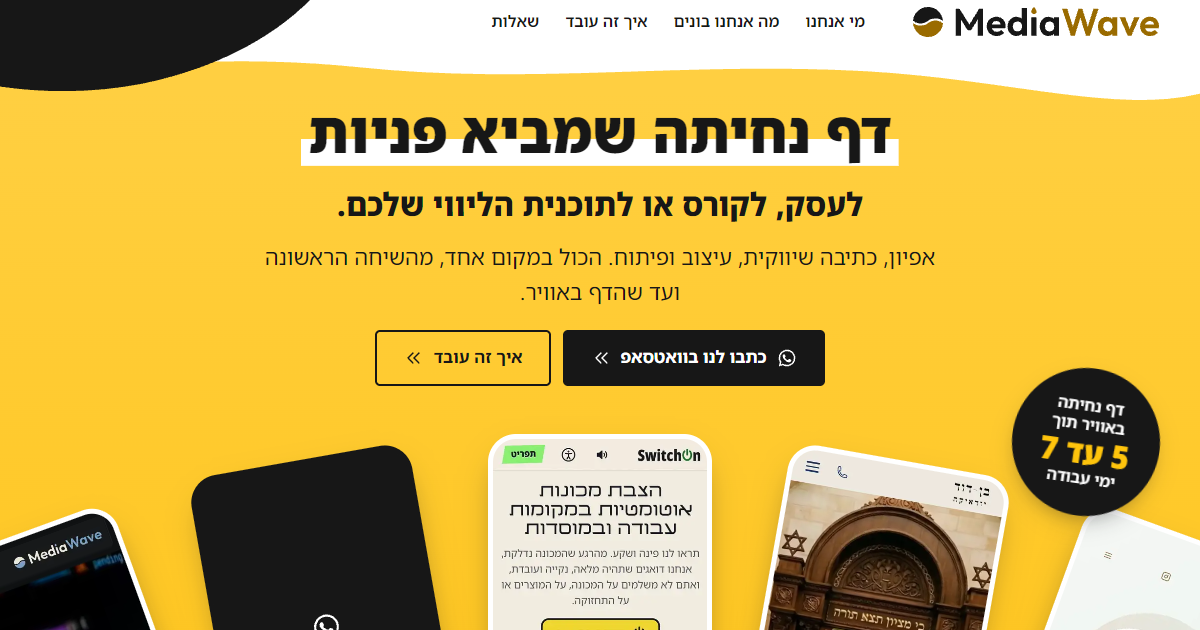
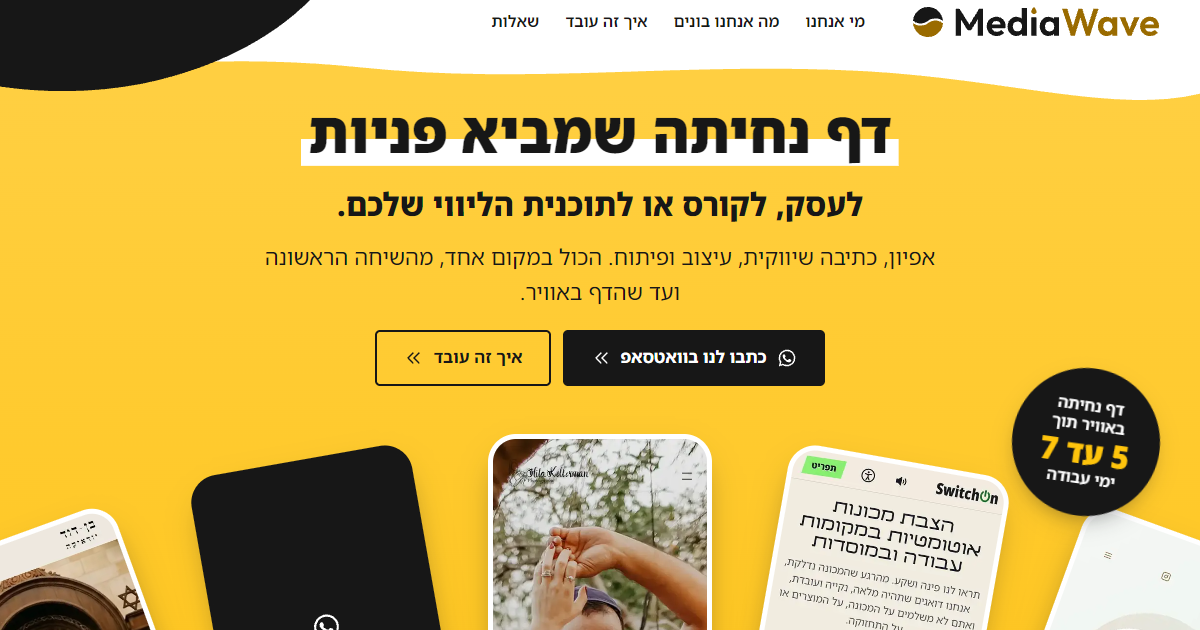
feat: two more scenes of Hila's page on the wheel (D243)
Her family-photos block and her gallery join her opening, three cards in all,
and the wheel opens on her. A project gets scenes through work.json; the deck
orders itself so that one site's cards stand three places apart.

Changed region(s): [[0.4008, 0.6937, 0.8325, 1.0], [0.0, 0.8143, 0.1233, 1.0]]

diff --git a/src/sun/Wheel.tsx b/src/sun/Wheel.tsx
@@ -20,23 +20,35 @@ const OPEN = { turn: 56, below: 0.86, seconds: 1.8, rise: 1.0 }
 /** Cards in one turn of the deck: odd, and a divisor of SLOTS. */
 const UNIT = 9
 
-type Card = { kind: 'shot'; slug: string; crop: 'top' | 'mid' } | { kind: 'next' }
+/** `crop` names the picture: public/work/<slug>-card-<crop>.webp ("top", "mid", or a scene "s1", "s2"). */
+type Shot = { kind: 'shot'; slug: string; crop: string }
+type Card = Shot | { kind: 'next' }
 
-/** The deck: the tops of all the projects, a lower crop of the first three, and one "yours next" card. */
+/** The deck: every project's top, more scenes of the pages that photograph well, a lower crop of others,
+    and one "yours next" card. */
 function deck(): Card[] {
-  const tops: Card[] = PROJECTS.map((p) => ({ kind: 'shot', slug: p.slug, crop: 'top' }))
-  // a project whose page is mostly dark further down shows its top only ("crops": 1 in work.json)
-  const mids: Card[] = PROJECTS.filter((p) => p.crops !== 1).map((p) => ({ kind: 'shot', slug: p.slug, crop: 'mid' }))
+  const shot = (slug: string, crop: string): Shot => ({ kind: 'shot', slug, crop })
+  const tops = PROJECTS.map((p) => shot(p.slug, 'top'))
+  // "scenes" in work.json (D243): further parts of a page worth showing. Two at most, so one site holds
+  // three cards at most, and three cards can still stand three places apart on a deck of nine.
+  const scenes = PROJECTS.flatMap((p) => (p.scenes ?? []).slice(0, 2).map((_, i) => shot(p.slug, `s${i + 1}`)))
+  // a lower crop for the others; none for a page that is mostly dark further down ("crops": 1) or that has scenes
+  const mids = PROJECTS.filter((p) => p.crops !== 1 && !p.scenes?.length).map((p) => shot(p.slug, 'mid'))
   // Always nine cards, whatever work.json holds: 36 slots take the unit exactly four times (no join), and a
   // phone, which shows every second slot, still walks all nine (nine is odd). Eight pictures and the "next"
-  // card. Every project's top comes first; lower crops fill what is left; a short list repeats from its start.
+  // card. Tops first, then scenes, then lower crops; a short list repeats from its start.
   // More than eight projects: the ninth is not on the wheel until the slot count is revisited.
-  const pictures = [...tops, ...mids].slice(0, UNIT - 1)
-  const shown = (c: Card) => pictures.includes(c)
-  // on the wheel: three tops, their lower crops, then the other tops, so one site's two crops are not neighbours
-  const order = [...tops.slice(0, 3), ...mids, ...tops.slice(3)].filter(shown)
-  const eight = order.length ? Array.from({ length: UNIT - 1 }, (_, i) => order[i % order.length]) : []
-  const unit: Card[] = [...eight, { kind: 'next' }]
+  const pictures = [...tops, ...scenes, ...mids].slice(0, UNIT - 1)
+  const eight = pictures.length ? Array.from({ length: UNIT - 1 }, (_, i) => pictures[i % pictures.length]) : []
+  // Spread them: the site with the most cards first, and each card three places after the one before it
+  // (3 and 8 share no factor, so the walk fills all eight places). Cards of one site are then never
+  // neighbours, on a desktop (every slot) or on a phone (every second slot).
+  const bySite = new Map<string, Shot[]>()
+  for (const c of eight) bySite.set(c.slug, [...(bySite.get(c.slug) ?? []), c])
+  const ranked = [...bySite.values()].sort((a, b) => b.length - a.length).flat()
+  const placed: Card[] = []
+  ranked.forEach((c, i) => { placed[(i * 3) % (UNIT - 1)] = c })
+  const unit: Card[] = [...placed, { kind: 'next' }]
   return Array.from({ length: SLOTS }, (_, i) => unit[i % unit.length])
 }
 

diff --git a/src/sun/content.ts b/src/sun/content.ts
@@ -18,6 +18,9 @@ export interface Project {
   url: string
   /** 1: the wheel shows only the top of the page (default: the top and a part further down) */
   crops?: number
+  /** more scenes of a page that photographs well: offsets in CSS px from the top of the 390 px wide page.
+      The wheel shows the first two (cards -card-s1 and -card-s2, made by scripts/capture-work.mjs). */
+  scenes?: number[]
 }
 export const PROJECTS = workJson as Project[]
 

diff --git a/DECISIONS.rtl.md b/DECISIONS.rtl.md
@@ -567,3 +567,9 @@
   - **נדחה:** ההצעה להרחיק שתי כותרות מהניסוח של נעם אביקסיס, כי זה מה שנתי ביקש ב-D240.
   - **נשאר לנתי להחליט (לא נעשה לבד):** האם הבחירות בכלי הנגישות צריכות להחזיק במעבר בין דפים (היום כל טעינה מתאפסת, לפי D26); האם כתיבת הטקסט של דף נחיתה כלולה במחיר (אם כן, מתקנים את השאלות והתקנון ולא את השלב); האם לקפל את בלוק המחיר בדפי השירות לתוך השאלות; האם שעות הפעילות בנתונים המובנים (א'-ה' 9:00-18:00) נכונות.
   - **נמדד על הבנייה המקומית, טלפון:** Lighthouse 98 / 100 / 100 / 100 בדף הבית ו-97 / 100 / 100 / 100 בדף שירות; CLS 0; axe בלי הפרות; אין יעד מגע קטן מ-44 פיקסלים.
+
+- **D243 · עוד סצנות מהאתר של הילה (נתי, 12.11):** "תוסיף עוד כמה סצנות מהאתר של הילה, כי הוא מצטלם טוב."
+  - **מה נכנס:** שתי סצנות נוספות מהדף שלה, כך שיש לה שלושה קלפים בגלגל: הפתיחה, "צילומי משפחה" (תמונה וכותרת) והגלריה. הגלגל נפתח עכשיו עליה במרכז.
+  - **למה שלושה ולא יותר:** בחפיסה של תשעה קלפים, שלושה קלפים של אותו אתר עוד יכולים לעמוד שלושה מקומות זה מזה, ואז אין שניים צמודים, לא בדסקטופ ולא בטלפון (שמציג כל מקום שני). ארבעה כבר לא.
+  - **מה ירד כדי לפנות מקום:** החיתוך התחתון של בן דוד ושל יעל לוי. לכל אתר יש לפחות קלף אחד; ל-SwitchOn נשארו שניים.
+  - **איך מוסיפים סצנות לאתר:** ב-`src/data/work.json`, שדה `scenes` עם מרחקים בפיקסלים מראש הדף (ברוחב 390), ואז `node scripts/capture-work.mjs <slug>`. הגלגל לוקח את שתי הראשונות. הסדר בגלגל מחושב לבד: האתר עם הכי הרבה קלפים ראשון, וכל קלף שלושה מקומות אחרי הקודם.

diff --git a/.context/HANDOFF.md b/.context/HANDOFF.md
@@ -28,6 +28,9 @@ One opening moment and three upgrades, through site-director (moment mode + the 
 ## D242, the same day: the audit round
 Eight independent reviewers, a skeptic per finding (31 of 32 confirmed) and one code reviewer on the applied diff. Only fixes and removals, no new section. The full verified list with reproductions is in DECISIONS D242; the raw audit (every finding, evidence, exact minimal change, risk) was a session scratch file and is not in the repo. Highlights: the wheel's deck is always nine cards (a phone used to miss two sites); the form takes +972, clears errors while typing, says "שליחה בוואטסאפ", and sends the service's own sentence on service pages; hover skins only under a hovering pointer; the corner tab only takes taps on its drawn wave; the cookie note sits at the bottom; no orphan words; service pages lost their pills and a 185-313 px hole; the desktop header and form disc start at 1100 px; favicon, app icon and the logo kit are yellow and ink (scripts/brand-palette.mjs); /your-site and /styles answer with a 302 to the home page; robots.txt is one rule. Owed to Nati: whether the accessibility panel's choices should survive a page change, whether copywriting is inside a landing page's price, whether to fold the price block of the service pages into their questions, and whether the opening hours in the structured data are right.
 
+## D243, the same day
+Two more scenes of Hila Kelerman's page on the wheel (her family-photos block and her gallery), three cards in all, and the wheel now opens on her. A project gets scenes through `"scenes": [offsets in CSS px]` in src/data/work.json and `node scripts/capture-work.mjs <slug>` (cards -card-s1, -card-s2). The deck (Wheel.tsx, deck()) orders itself: tops, then scenes, then lower crops, cut to eight pictures, and spread so that one site's cards stand three places apart.
+
 ## Waiting for Nati
 1. The direction itself, on the preview.
 2. The lines marked [קופי: נתי] in `src/sun/content.ts`.

diff --git a/.context/NEXT-SESSION-PROMPT-MORIAH.rtl.md b/.context/NEXT-SESSION-PROMPT-MORIAH.rtl.md
@@ -3,8 +3,8 @@
 ממשיכים את העבודה על האתר החדש של mediawave.co.il מאותה נקודה שבה נתי עצר ב-12.11.2026.
 
 ## קודם כול, קרא בסדר הזה
-1. `.context/HANDOFF.md`, רק החלק העליון ("the statement site", D237 עד D242).
-2. `DECISIONS.rtl.md`, שש ההחלטות האחרונות: D237 עד D242.
+1. `.context/HANDOFF.md`, רק החלק העליון ("the statement site", D237 עד D243).
+2. `DECISIONS.rtl.md`, שבע ההחלטות האחרונות: D237 עד D243.
 3. `src/sun/content.ts`: כל הטקסטים של דף הבית, במקום אחד.
 
 ## איפה העבודה
@@ -54,4 +54,4 @@
 ## איך לעבוד
 - כל שינוי: לבדוק ב-390 וב-1440, לוודא שאין גלילה אופקית ושאין שגיאות, ואז commit ודחיפה לענף כדי שהתצוגה המקדימה תתעדכן.
 - הדחיפה עובדת רק מהחשבון `mediawave-dev` (הפקודה בזיכרון הפרויקט, `mediawave-github-deploy`).
-- בסוף כל סבב: לעדכן את `.context/HANDOFF.md` ולהוסיף החלטה ממוספרת ל-`DECISIONS.rtl.md` (הבאה: D243).
+- בסוף כל סבב: לעדכן את `.context/HANDOFF.md` ולהוסיף החלטה ממוספרת ל-`DECISIONS.rtl.md` (הבאה: D244).
